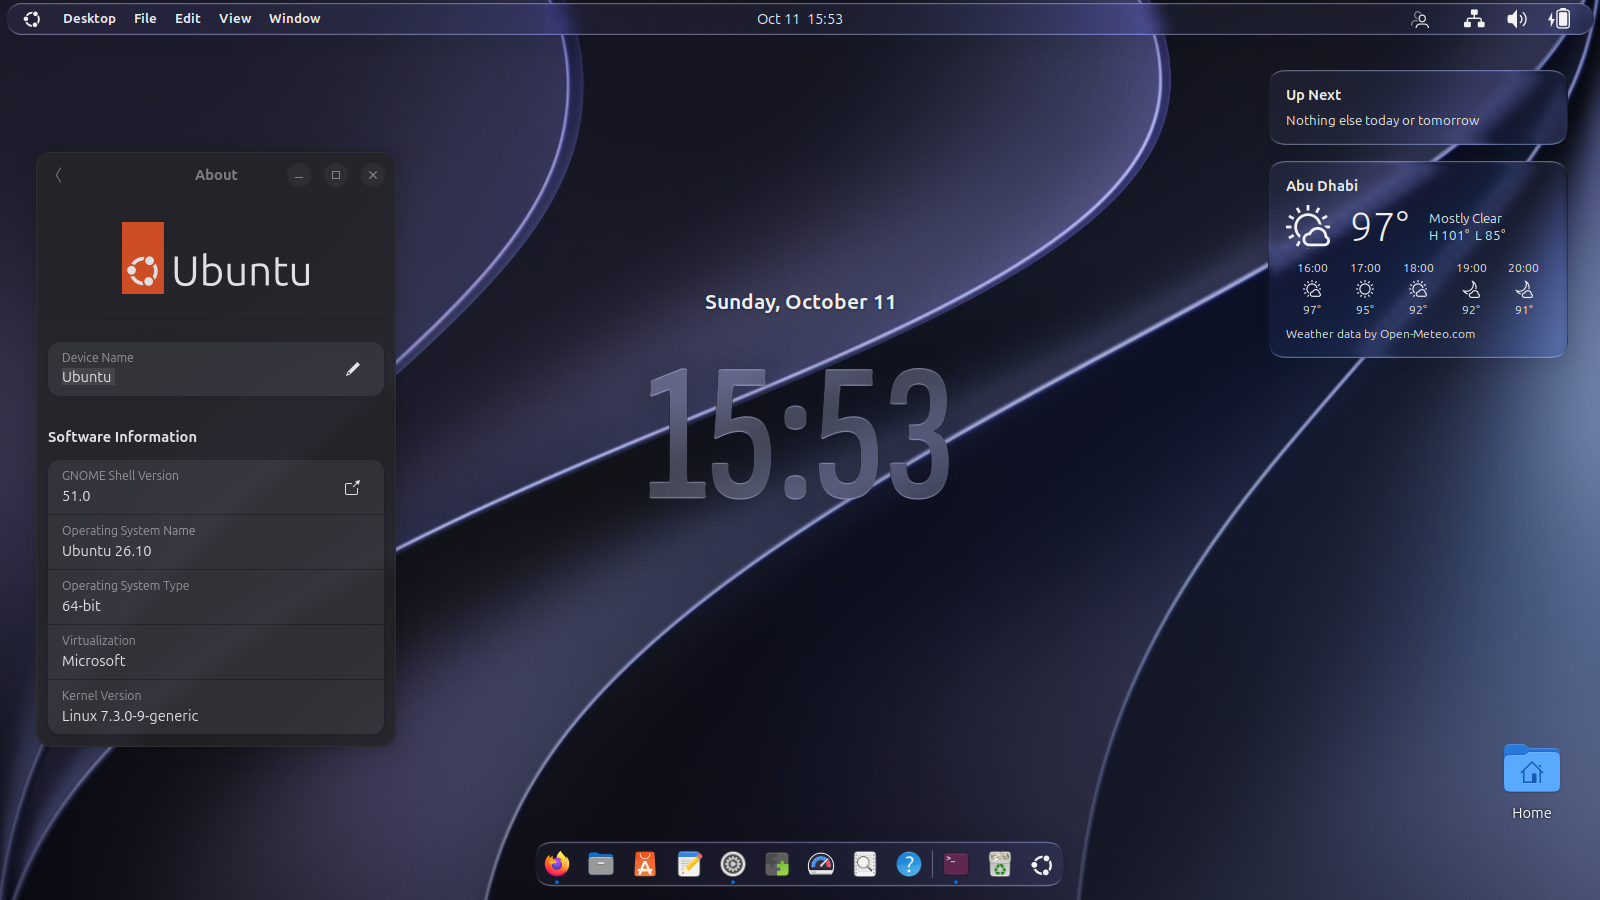
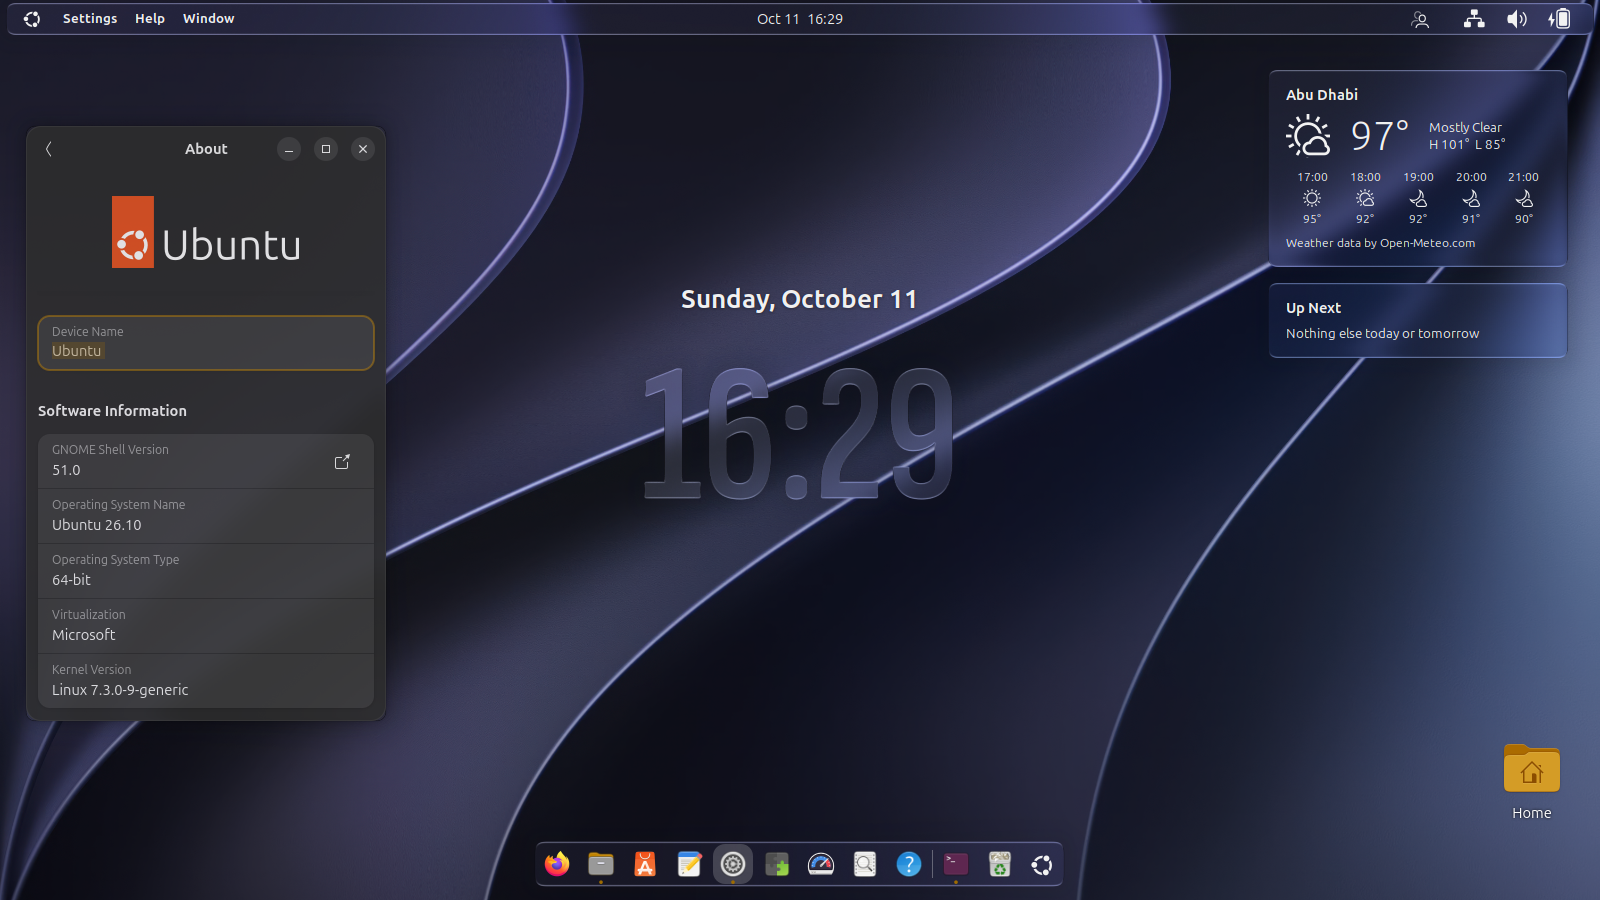
Use requested 16:29 screenshot; fix README structure and labels

diff --git a/README.md b/README.md
@@ -123,7 +123,7 @@ AppMenu, global-menu-for-gnome, Fildem, and Kiwi Menu are all "global menu" exte
 | Real exported app menus (dbusmenu, org.gtk.Actions) | Yes | Yes | No | No |
 | Synthetic-action fallback when no exported menu | Yes | No | No | No |
 | Window list per app | Yes | No | No | No |
-| Quit App, App Details | Yes | No | No | No |
+| Quit App, per-app Settings | Yes | No | No | No |
 | Force Quit | Yes | No | Yes | No |
 | Recent items | Yes | No | No | Yes |
 | Fast user switching | Yes | No | No | No |
@@ -295,6 +295,7 @@ GNOME 51 runtime QA results and coverage limits are documented in [QA-v5.7.0.md]
 AppMenu/
 ├── extension.js                 # Extension lifecycle
 ├── menuManager.js               # Panel menu orchestration
+├── compatibility.js             # GNOME version compatibility helpers
 ├── searchDialog.js              # Spotlight-style search dialog
 ├── workspaceIndicator.js        # Workspace dots controller
 ├── prefs.css                    # Preferences gallery styling
@@ -304,8 +305,9 @@ AppMenu/
 ├── logger.js                    # Debug-gated logging
 ├── prefs.js                     # Preferences window
 ├── stylesheet.css               # Shell styling
+├── screenshot.png               # README screenshot
 ├── schemas/                     # GSettings schema
-├── actions/                     # Action handlers
+├── actions/                     # Action handlers (incl. accelerator parsing)
 ├── menus/                       # Menu definitions
 ├── icons/                       # SVG icons
 ├── scripts/build-packages.sh    # Release package builder
